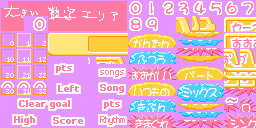
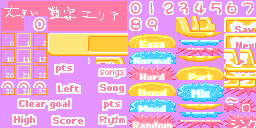
Results screen: English pills (Easy..Mix) and Next/Save buttons in atlas 1F0F059; results warps wait for panels

diff --git a/tools/gfx_score.py b/tools/gfx_score.py
@@ -5,6 +5,7 @@ inside the tiles its Japanese used. Word style: pink fill 10-12, white ring 13-1
     python -X utf8 tools/gfx_score.py
 """
 import sys
+from collections import Counter
 from pathlib import Path
 
 sys.path.insert(0, str(Path(__file__).resolve().parent))
@@ -25,6 +26,60 @@ WORDS = [
     ((216, 16, 224, 32), None),           # と left half (8x16)
     ((96, 112, 128, 128), "Rhythm"),      # リズム
 ]
+
+
+# Results-screen sprites (warp state work/states/results_real.mss, user's save after a real song): each is a 48x24
+# canvas of atlas pieces (src x, y, w, h, canvas x, y), mapped from the OAM dump (OBJ tile -> block tile).
+def _pill(x, y, yb, xb=176):  # 48x16 top + 48x8 bottom strip in the x 176-223 column
+    return [(x, y, 48, 16, 0, 0), (xb, yb, 48, 8, 0, 16)]
+
+
+def _btn(t32, t16, b32, b16):  # framed button: 32+16 wide, 16+8 tall
+    return [(*t32, 32, 16, 0, 0), (*t16, 16, 16, 32, 0), (*b32, 32, 8, 0, 16), (*b16, 16, 8, 32, 16)]
+
+
+# pills: white kana 14-15 on fill 2/6/10; buttons: pink kana 10-14 on white 15 inside a yellow frame
+SPRITES = [
+    (_pill(128, 32, 32), "Easy", "pill"),     # かんたん
+    (_pill(128, 48, 40), "Normal", "pill"),   # ふつう
+    (_pill(128, 64, 48), "Hard", "pill"),     # むずかしい
+    (_pill(128, 80, 104), "Usual", "pill"),   # いつもの
+    (_pill(128, 96, 112), "Mood", "pill"),    # きぶん
+    (_pill(128, 112, 120), "Random", "pill"),  # きまぐれ
+    (_pill(176, 64, 56), "Part", "pill"),     # パート
+    (_pill(176, 80, 96), "Mix", "pill"),      # ミックス
+    (_btn((224, 32), (224, 48), (224, 72), (240, 80)), "Next", "btn"),  # すすむ
+    (_btn((224, 16), (240, 48), (224, 64), (224, 80)), "Save", "btn"),  # セーブ
+]
+
+
+def sprite(img, pieces, text, kind):
+    cv = [[0] * 48 for _ in range(24)]
+    for sx, sy, w, h, dx, dy in pieces:
+        for y in range(h):
+            cv[dy + y][dx:dx + w] = img[sy + y][sx:sx + w]
+    ink = {14, 15} if kind == "pill" else {10, 11, 12, 13, 14}
+    x0, y0, x1, y1 = (4, 2, 44, 22) if kind == "pill" else (5, 3, 42, 21)
+    bg = Counter(cv[y][x] for y in range(y0, y1) for x in range(x0, x1) if cv[y][x] not in ink | {0})
+    bg = bg.most_common(1)[0][0] if kind == "pill" else 15
+    for y in range(y0, y1):
+        for x in range(x0, x1):
+            if cv[y][x] in ink:
+                cv[y][x] = bg
+    for bold, gap in ((True, 1), (False, 1), (False, 0)):
+        try:
+            if kind == "pill":
+                gfx.typeset(cv, [text], (x0, y0 + 3, x1, y1), fill=15, outline=[bg + 2], bold=bold, gap=gap)  # ring = pill edge 4/8/12
+            else:
+                gfx.typeset(cv, [text], (x0, y0 + 2, x1, y1), fill=10, outline=[], bold=bold, gap=gap)  # 13 is grey in pal 11/12
+            break
+        except ValueError:
+            continue
+    else:
+        raise SystemExit(f"{text!r} does not fit")
+    for sx, sy, w, h, dx, dy in pieces:
+        for y in range(h):
+            img[sy + y][sx:sx + w] = cv[dy + y][dx:dx + w]
 
 
 def word(img, rect, text):
@@ -51,6 +106,8 @@ def main():
     img = gfx.to_image(gfx.decode(rom, off, size)[0], layout)
     for rect, text in WORDS:
         word(img, rect, text)
+    for pieces, text, kind in SPRITES:
+        sprite(img, pieces, text, kind)
     gfx.save_png(img, pal, gfx.ROOT / png)
     print(png)
 

diff --git a/docs/re/graphics.md b/docs/re/graphics.md
@@ -70,9 +70,10 @@ prompts, ending and credits, story scenes if any.
   1EFF434 entries 26/42): the prompt is drawn as one line in the first 128 px; check it when reached.
 - Group `score` (done): HUD atlas 1F0F059 words pts/songs/Left/Song/Clear goal/High|Score/Rhythm, `tools/gfx_score.py`;
   checked in game over, tokoton, draw, results (`work/qa/p8score`). とくてん alone = と left half at (216,16) + x 48-87
-  of さいこうとくてん. Left in the atlas (not seen in a warp yet): difficulty pills (128-224, 32-128: かんたん ふつう
-  むずかしい いつもの きぶん きまぐれ パート ミックス, white 14-15 on the pill fill) and framed labels セー.. / あおあ.. /
-  ポ / プ at (224-255, 16-64).
+  of さいこうとくてん. Results pills + buttons (session 27, `SPRITES` in `tools/gfx_score.py`, mapped from the OAM of
+  the user's real-song state `work/states/results_real.mss`): pills = 48x16 top at (128|176, y) + 48x8 bottom strip
+  in column x 176-223 (Easy Normal Hard Usual Mood Random Part Mix); buttons すすむ/セーブ -> Next/Save = 32+16 x 16+8
+  pieces at x 224-255. Only Easy/Usual seen in game (fixture save); the other six pills checked on the atlas only.
 - 1F59B31 is a byte-identical copy of 17264E2 (difficulty sheet): a second row in `gfx/diff.tsv` with the same png.
   1F5ABD8 (800x4) has the same layout with パート/ミックス/シンクロ -> Part/Mix/Sync (`gfx_diff.SHEETS`; not warped yet).
 - Group `draw` (done): 1F1345A is an 800x2 chain (not 0x40003): four 32x32 OBJ cells ひ/き/わ/け, each a separate

diff --git a/docs/status.md b/docs/status.md
@@ -8,6 +8,13 @@ phase 8: graphics redraws and the first visual-QA fixes, see `git log` and `docs
   Last build: `build.py` -> build/mermaid_en.gba (session 26, sha1 1d0f02a984597e2c3f3c12c596010cfbfb6a11d4,
   CRC32 7A0E5172; smoke ok, write log clean); marker
   build `build.py --marker --out build/marker.gba`.
+- **Session 27 (2026-11-17):** user found Japanese on the results screen (pills かんたん/いつもの.., buttons
+  すすむ/セーブ). Atlas 1F0F059 pieces had been left as "not seen in a warp yet": the tour's results shot (frame 960)
+  came before the panels slide in, and VQA passed the blank sheet. Fixed: `SPRITES` in `tools/gfx_score.py`
+  (Easy Normal Hard Usual Mood Random Part Mix, Next, Save); results rows in `scenes.tsv` wait 300 frames. Build
+  sha1 5706775acf45426c0aeb9adb8517c808cf42367f, check 43 passed, smoke ok, 6 atlas scenes re-toured + VQA ok, gate
+  waived for this build. **v1.0 zip is stale: re-run `tools/release.py`.** Open: stray comma after "Rhythm" on
+  results (pre-existing); pills Normal/Hard/Mood/Random/Part/Mix unseen in game (fixture save = Easy/Usual).
 - **Session 26 (2026-11-17), phase 9:**
   - Story pass: `tools/story.py` writes one chapter per episode (`work/qa/story/chapters/epNN.txt`, tour5 log order;
     lines the tour never reaches, after the song, placed by message-id block, marked `(+)`) + `extras` (late

diff --git a/docs/skill-gotchas.md b/docs/skill-gotchas.md
@@ -58,3 +58,4 @@ references/graphics.md: a 0x800 kcomp chain can be panels (128x32 each) laid 2 a
 - references/translation.md (Story pass): a tour log gives story order only up to where the run stops (here the song: no GOD mode), ~1/4 of each episode's lines (endings, branches) never appear; `tools/story.py` slots them in by message-id block per episode (marked `(+)`). Codex `exec -o` works as the read-only story reviewer (~1-2 min per episode).
 - scripts/jp_left.py: when the English font reuses the Japanese code space (en.tbl codes = jp.tbl kana), `--tbl jp.tbl` reads all English as kana; gate with `--orig ORIG --range <message region>` (untouched runs only), and graphics separately.
 - references/translation.md (Story pass): the brief's `Each: id - ...` Minor format is not always bulleted by codex (extras report); a collector that only takes `- ` lines misses them, read the Minor section whole.
+- references/emulator-qa.md (Visual QA): a warp tour shot taken at a fixed settle can land before a screen's panels slide in (results here: blank at frame 960, full by 1100); the VQA reviewer passed the blank sheet as "also in the original" and graphics marked "not seen in a warp yet" never got redrawn. Give such scenes a wait in the route and treat any "not seen yet" graphics note as a release blocker.
